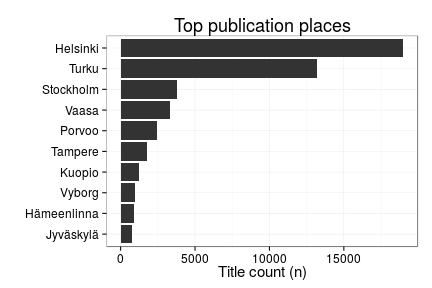
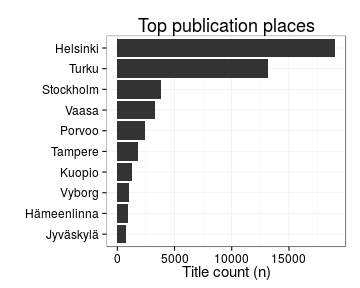
author plots

diff --git a/inst/examples/20151209-HelsinkiDH.md b/inst/examples/20151209-HelsinkiDH.md
@@ -19,6 +19,8 @@ This markdown document contains presentation material for [Digital History in Fi
 
 ![plot of chunk 20151209-HDH-topauthor](figure/20151209-HDH-topauthor-1.png) ![plot of chunk 20151209-HDH-topauthor](figure/20151209-HDH-topauthor-2.png) 
 
-![plot of chunk 20151209-HDH-topplace](figure/20151209-HDH-topplace-1.png) ![plot of chunk 20151209-HDH-topplace](figure/20151209-HDH-topplace-2.png) 
+![plot of chunk 20151209-HDH-topplace](figure/20151209-HDH-topplace-1.png) 
+
+![plot of chunk 20151209-HDH-toptopic](figure/20151209-HDH-toptopic-1.png) 
 
 ![plot of chunk 20151209-HDH-topg](figure/20151209-HDH-topg-1.png) 
